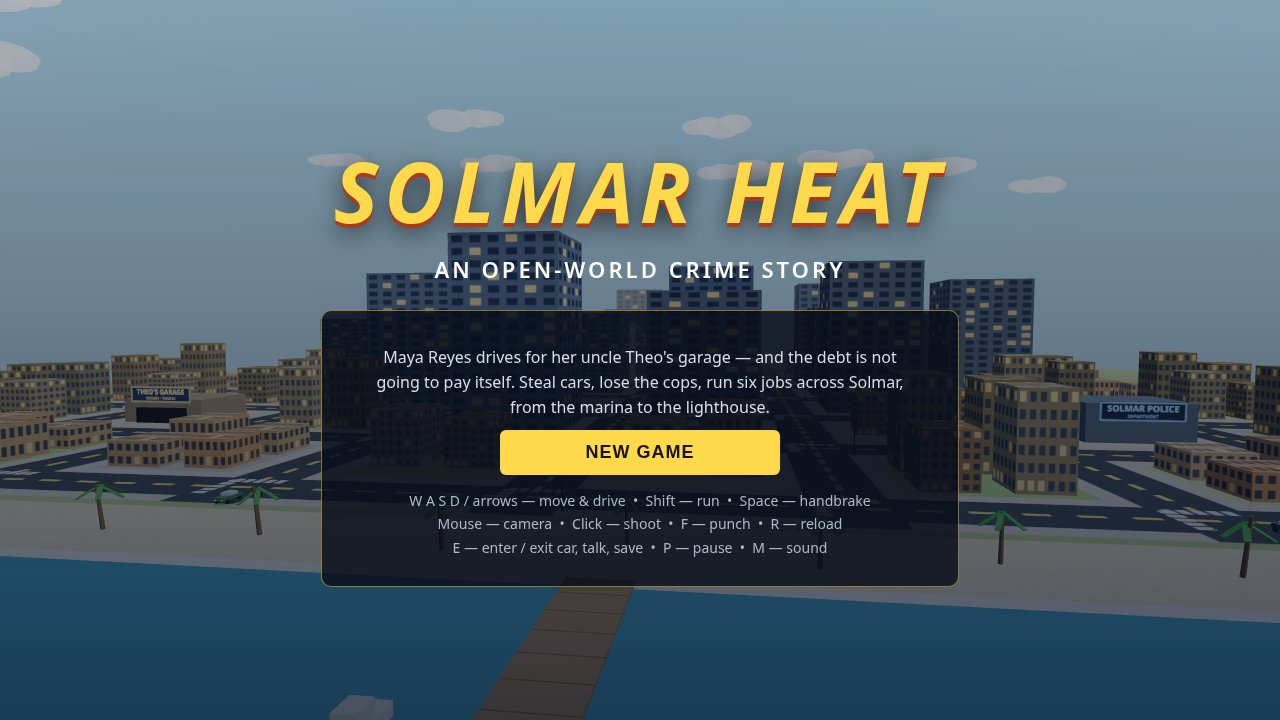
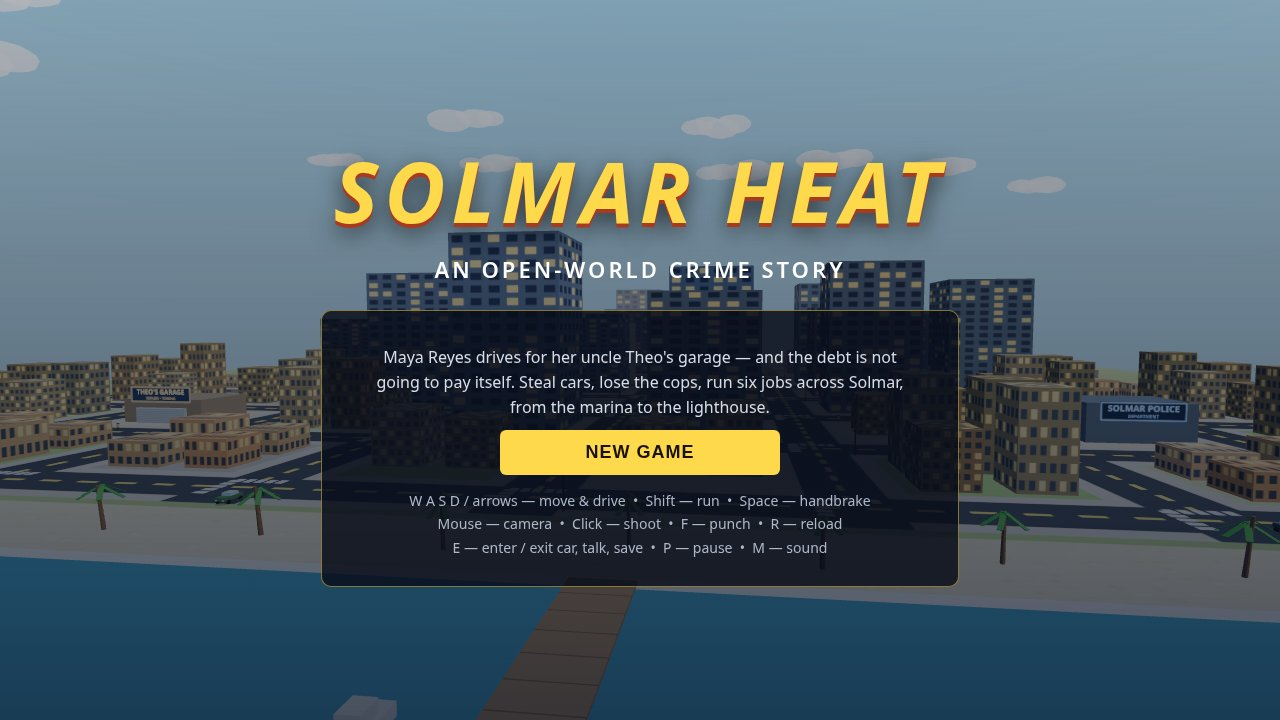
Spawn facing the garage from the approach; roller-door texture
Player now spawns 7m south of the garage approach facing the building,
its sign and the mission marker instead of nose-to-the-wall at the
building edge; respawn and save-load fallback use the same approach
points. The garage door is a steel roller-door slat texture instead of
a flat near-black slab. Re-captured the start screenshot.

diff --git a/game/src/main.js b/game/src/main.js
@@ -51,8 +51,12 @@ const combat = createCombat(scene, city, random);
 // The player.
 const playerModel = createPersonModel(0xe8a83a, 0x2a3a5a, 0xc89a6a);
 const garage = city.locations.garage;
+// Spawn a step south of the garage approach, facing the garage and its
+// mission marker, with the building, its sign and the street all in view —
+// never nose-to-a-wall inside the building's edge.
+const spawnPoint = { x: garage.approach.x, z: garage.approach.z + 7 };
 const player = {
-  walker: createWalker(scene, playerModel, garage.x + 8, garage.z + 14, Math.PI),
+  walker: createWalker(scene, playerModel, spawnPoint.x, spawnPoint.z, Math.PI),
   health: PLAYER.maxHealth,
   cash: ECONOMY.startCash,
   onFoot: true,
@@ -62,8 +66,8 @@ const player = {
   lastDamage: -99,
   shotFired: false,
 };
-player.walker.x = garage.x + 8;
-player.walker.z = garage.z + 14;
+player.walker.x = spawnPoint.x;
+player.walker.z = spawnPoint.z;
 
 // Vehicles: traffic, parked cars, and mission cars as they spawn.
 const cars = [];
@@ -208,7 +212,7 @@ function applySave(data) {
       coin.mesh.visible = false;
     }
   }
-  teleportPlayer(data.x ?? garage.x + 8, data.z ?? garage.z + 14, data.heading ?? Math.PI);
+  teleportPlayer(data.x ?? spawnPoint.x, data.z ?? spawnPoint.z, data.heading ?? Math.PI);
   hud.setCash(player.cash);
   hud.setHealth(player.health, PLAYER.maxHealth);
 }
@@ -304,7 +308,7 @@ function respawn() {
   player.onFoot = true;
   player.health = PLAYER.maxHealth;
   player.walker.model.group.visible = true;
-  teleportPlayer(spot.x + 10, spot.z + 12, Math.PI);
+  teleportPlayer(spot.approach.x, spot.approach.z, Math.PI);
   hud.setHealth(player.health, PLAYER.maxHealth);
   hud.hideEnd();
   screen = 'play';
@@ -716,7 +720,7 @@ document.addEventListener('visibilitychange', () => {
 hud.setCash(player.cash);
 hud.setHealth(player.health, PLAYER.maxHealth);
 hud.setStars(0, false);
-cameraController.snapTo(garage.x + 8, 0, garage.z + 14, Math.PI);
+cameraController.snapTo(spawnPoint.x, 0, spawnPoint.z, Math.PI);
 if (shot) {
   vistaMode = stageShot(shot, game) === 'vista';
   if (vistaMode) {

diff --git a/game/src/city.js b/game/src/city.js
@@ -264,7 +264,16 @@ export function buildCity(scene, random) {
 
   place('garage', 1, 6, (g) => {
     slab(g, inner * 0.8, 7, inner * 0.6, 0, 0, mat(0x8a7a66));
-    slab(g, inner * 0.5, 4.5, 1, 0, inner * 0.3 + 0.5, mat(0x222222));
+    // Roller-door texture: steel slats instead of a flat black void.
+    const dc = document.createElement('canvas');
+    dc.width = 128; dc.height = 64;
+    const dctx = dc.getContext('2d');
+    dctx.fillStyle = '#6a7a8a'; dctx.fillRect(0, 0, 128, 64);
+    dctx.fillStyle = '#46566a';
+    for (let y = 6; y < 64; y += 8) dctx.fillRect(0, y, 128, 2);
+    dctx.fillStyle = '#93a3b5'; dctx.fillRect(0, 0, 128, 3);
+    const doorTex = new THREE.CanvasTexture(dc);
+    slab(g, inner * 0.5, 4.5, 1, 0, inner * 0.3 + 0.5, new THREE.MeshLambertMaterial({ map: doorTex }));
     sign(g, signTexture("THEO'S GARAGE", 'REPAIRS • TOWING', '#24344d', '#ffd98a'), 20, 8.5, inner * 0.3 + 0.6);
     colliders.push(boxCollider(1, 6, inner * 0.8, inner * 0.6));
   });
